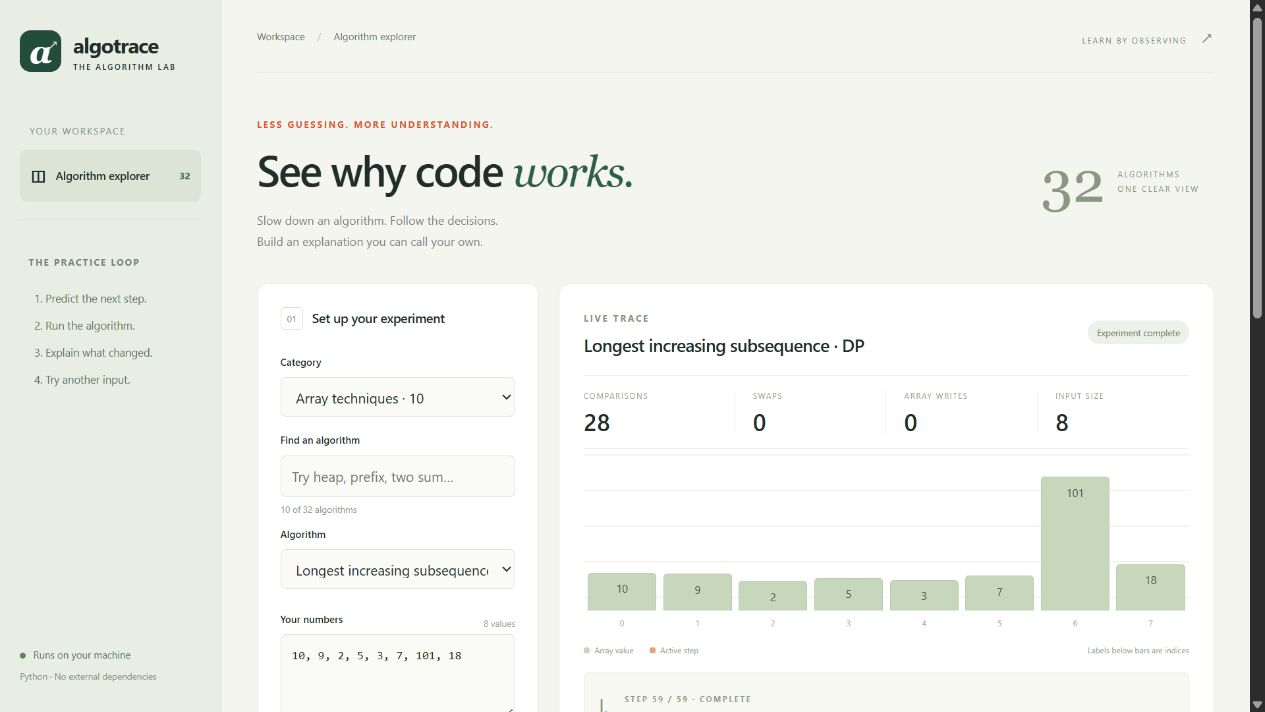
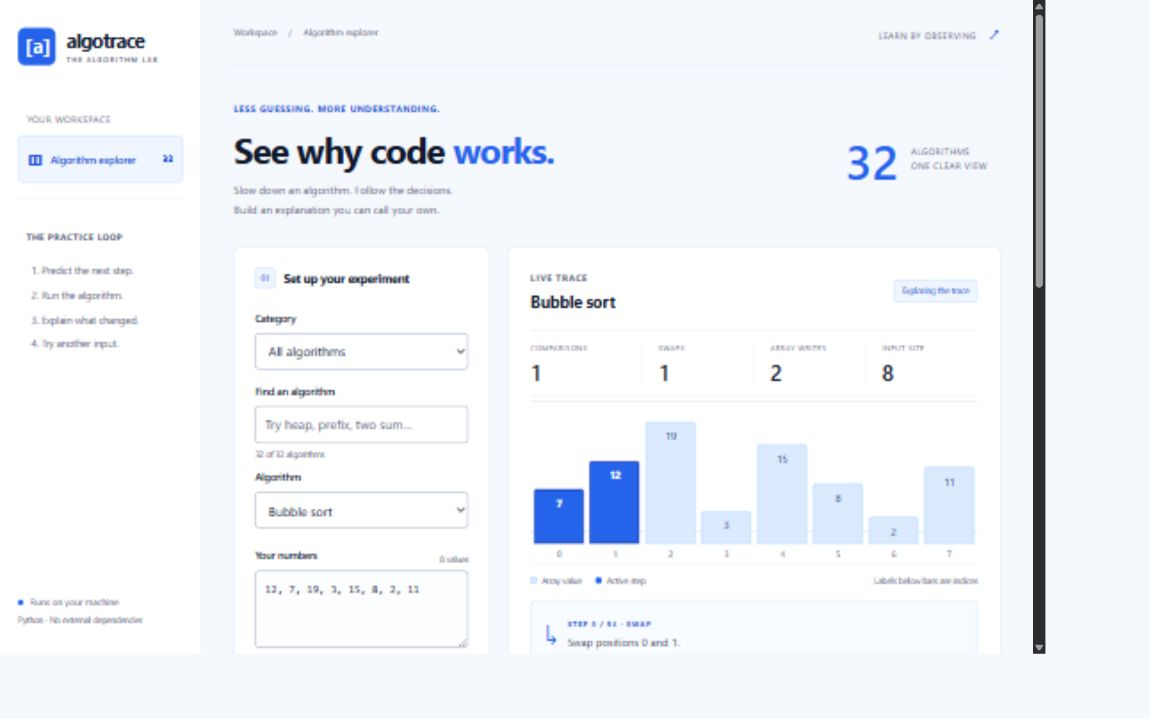
Restyle AlgoTrace with a blue and white interface

diff --git a/algotrace/web/style.css b/algotrace/web/style.css
@@ -1,5 +1,223 @@
-:root{--ink:#202d2a;--muted:#78827c;--line:#e4e7df;--paper:#f4f5ef;--white:#fff;--orange:#d85a35;--green:#2e5d4b;--soft:#edf1e9}*{box-sizing:border-box}body{margin:0;color:var(--ink);background:var(--paper);font:14px/1.5 'Segoe UI',Arial,sans-serif}button,input,textarea,select{font:inherit}button,a,select,input[type=range]{-webkit-tap-highlight-color:transparent}button{cursor:pointer;border:0;background:none;color:var(--ink)}button:disabled{cursor:default;opacity:.4}button:hover:enabled{filter:brightness(.94)}button:focus-visible,a:focus-visible,input:focus-visible,select:focus-visible,textarea:focus-visible{outline:3px solid #e0a16d;outline-offset:3px}button:active:enabled{transform:translateY(1px)}[hidden]{display:none!important}.rail{width:224px;height:100vh;position:fixed;inset:0 auto 0 0;background:#e9eee5;border-right:1px solid #dce2d7;padding:30px 20px;display:flex;flex-direction:column}.brand{display:flex;gap:12px;align-items:center;text-decoration:none;color:var(--ink)}.brand-mark{height:42px;width:42px;display:flex;align-items:center;justify-content:center;font:italic bold 34px Georgia;background:#244c3d;color:#fff;border-radius:11px;position:relative}.brand-mark>span{font:17px 'Segoe UI';position:absolute;right:3px;top:2px;color:#c9dbb6}.brand strong{font-size:21px;letter-spacing:-.7px}.brand strong>span{display:block;font-size:8px;letter-spacing:1.5px;font-weight:500}.rail-caption{font-size:9px;letter-spacing:1.5px;color:#80907e;margin:52px 10px 12px}.rail-item{display:flex;align-items:center;gap:10px;padding:13px 11px;font-size:11px;border-radius:7px}.rail-item.selected{background:#dce5d5;font-weight:600}.rail-item>span{font-size:18px}.rail-item b{margin-left:auto;font-size:9px;color:#60725d}.rail-note{padding:30px 9px;margin-top:18px;border-top:1px solid #d7dfd1}.tiny-label{font-size:9px;font-weight:700;letter-spacing:1.5px;color:var(--muted)}.rail-note ol{padding-left:17px;font-size:11px;color:#637360;line-height:2.5;margin-top:14px}.rail-bottom{margin-top:auto;color:#62725f;font-size:10px}.rail-bottom small{display:block;font-size:9px;margin-top:7px;color:#8a9486}.online-dot{display:inline-block;width:6px;height:6px;border-radius:50%;background:#62835a;margin-right:5px}main{margin-left:224px;padding:0 36px;max-width:1800px}header{height:74px;border-bottom:1px solid var(--line);display:flex;align-items:center;justify-content:space-between;font-size:10px}.breadcrumb{color:#69736d}.breadcrumb span{padding:0 10px;color:#bec6bb}.edition{font-size:8px;letter-spacing:1.5px;color:#7c897b}.edition i{font-size:17px;font-style:normal;margin-left:10px}.intro{display:flex;align-items:center;justify-content:space-between;padding:39px 0 32px}.eyebrow{font-size:9px;font-weight:700;letter-spacing:1.8px;color:var(--orange)}h1{font-size:clamp(28px,3.4vw,48px);letter-spacing:-1.8px;line-height:1.15;margin:12px 0 13px;font-weight:550}h1 em{font-family:Georgia,serif;font-weight:500;color:var(--green)}.intro p{font-size:12px;color:#7c847e;line-height:1.8;margin:0}.intro-stamp{display:flex;align-items:center;color:#8a9783;font:58px/1 Georgia;padding-right:15px;gap:13px}.intro-stamp span{font:8px/1.8 'Segoe UI';letter-spacing:1.5px}.panel{border:1px solid var(--line);border-radius:11px;background:var(--white);overflow:hidden}.workspace{display:grid;grid-template-columns:285px minmax(0,1fr);gap:20px}.controls-panel{padding:23px}.panel-heading{display:flex;align-items:center;gap:9px;margin-bottom:25px}.step-badge{font-size:9px;border:1px solid #dce1d7;color:#82907b;border-radius:4px;width:23px;height:23px;display:inline-flex;align-items:center;justify-content:center;flex-shrink:0}h2{font-size:13px;letter-spacing:-.2px;margin:0;font-weight:600}label{display:block;font-size:10px;font-weight:600;margin-bottom:8px}input,select,textarea{width:100%;color:var(--ink);background:#fafbf7;border:1px solid #dde3d8;border-radius:6px;padding:10px 11px;resize:vertical}select{height:40px;cursor:pointer}textarea{font-family:'Consolas','Courier New',monospace;font-size:12px;line-height:1.8}.label-line{display:flex;align-items:center;justify-content:space-between;margin-top:23px}.label-line span{color:#9ba393;font-size:9px}.field-help{font-size:9px;color:#91998f;margin:5px 0 11px}.sample-buttons{display:flex;gap:5px;flex-wrap:wrap}.sample-buttons button{border:1px solid var(--line);border-radius:4px;padding:5px 7px;font-size:9px;color:#6e7c66;background:#fafbf7}#target-group{margin-top:18px}.primary{display:flex;justify-content:space-between;width:100%;padding:12px 14px;color:#fff;background:var(--orange);border-radius:6px;font-weight:600;font-size:11px;margin-top:25px}.primary span{font-size:16px}.algorithm-note{border-top:1px solid var(--line);margin-top:24px;padding-top:18px}.algorithm-note p{font-size:10px;line-height:1.9;color:#7c8775;margin:9px 0 0}.trace-heading{display:flex;justify-content:space-between;align-items:center;padding:22px 25px 17px}.muted{color:#899582}.trace-heading h2{font-size:18px;letter-spacing:-.5px;margin-top:5px}.status{background:var(--soft);color:#6b805d;font-size:9px;padding:5px 9px;border-radius:20px}.stats{display:grid;grid-template-columns:repeat(4,1fr);margin:0 25px;border-top:1px solid #edf0e8;border-bottom:1px solid #edf0e8;padding:14px 0}.stats>div{border-right:1px solid #edf0e8;padding-left:18px}.stats>div:first-child{padding-left:0}.stats>div:last-child{border:0}.stats span{display:block;font-size:8px;letter-spacing:1px;color:#9aa490}.stats strong{display:block;font-size:24px;line-height:1.1;font-weight:500;margin-top:7px}.chart{display:flex;align-items:end;gap:7px;height:185px;padding:28px 4px 22px;margin:0 25px;background:repeating-linear-gradient(to top,transparent 0,transparent 35px,#f1f3ed 35px,#f1f3ed 36px);overflow-x:auto}.bar-slot{height:100%;min-width:25px;flex:1;display:flex;align-items:end;position:relative}.bar{background:#c6d7bc;border:1px solid #baccaf;border-radius:4px 4px 0 0;width:100%;min-height:20px;display:flex;align-items:start;justify-content:center;padding-top:7px;color:#41573b;position:relative;font-size:11px;transition:height .15s,background .15s}.bar.active{background:#e9a080;border-color:#df8a65;color:#713e27}.bar.outside{opacity:.25}.bar-index{position:absolute;bottom:-19px;text-align:center;width:100%;font-size:8px;color:#a4ad9d}.bar-slot.compact{min-width:17px}.bar-slot.compact .bar{font-size:8px}.chart-legend{display:flex;gap:16px;font-size:8px;color:#929b8c;align-items:center;margin:12px 25px 17px}.chart-legend i{display:inline-block;width:6px;height:6px;border-radius:2px;margin-right:5px}.legend-neutral{background:#c6d7bc}.legend-active{background:#e9a080}.index-note{margin-left:auto}.narration{display:flex;gap:13px;background:#f7f8f2;margin:0 25px;border:1px solid #e7ebdf;border-radius:6px;padding:11px 14px;min-height:68px;align-items:center}.pulse-icon{color:#849876;font-size:24px}.narration .tiny-label{font-size:8px;color:#94a086}.narration p{margin:3px 0 0;font-size:11px;color:#58664e}.timeline{margin:15px 25px 0}.timeline input{padding:0;border:0;height:4px;accent-color:var(--green);display:block}.playback{display:flex;align-items:center;justify-content:space-between;margin-top:14px}.transport{display:flex;align-items:center;gap:7px}.transport button{width:29px;height:29px;border:1px solid var(--line);border-radius:5px;font-size:15px}.transport .play{width:auto;font-size:10px;background:var(--green);color:#fff;padding:0 15px;border-color:var(--green)}.speed-label{display:flex;align-items:center;gap:7px;color:#8b9682;font-size:9px;font-weight:400;margin:0}.speed-label select{width:75px;height:28px;padding:3px 5px;font-size:9px}.trace-footer{border-top:1px solid #edf0e8;margin-top:18px;padding:12px 25px;display:flex;gap:10px;align-items:center;justify-content:space-between;font-size:9px;color:#8b9683}.trace-footer span{max-width:70%;overflow-wrap:anywhere}.trace-footer button{font-size:9px;white-space:nowrap}.lower-grid{display:grid;grid-template-columns:1fr 1fr;gap:20px;margin-top:20px}.section-label{display:flex;align-items:center;gap:9px;margin-bottom:18px}.section-label>span:last-child:not(.step-badge){font-size:7px;margin-left:auto;color:#a0a999;letter-spacing:1px}.code-panel,.compare-panel{padding:22px 25px}.pseudocode{padding:13px 10px 13px 39px;margin:0;background:#f5f7f1;border:1px solid #e8ecdf;border-radius:6px;font:10px/2.2 Consolas,monospace;color:#607256}.pseudocode li{white-space:pre-wrap;padding-left:8px}.pseudocode li::marker{color:#a4af9a}.pseudocode li.current{background:#e8cfb7;color:#5b452e}.complexity{display:flex;flex-wrap:wrap;gap:12px;margin-top:17px;font-size:9px;color:#8e9a83}.complexity strong{color:#53654a;display:block;font-family:Consolas,monospace;font-size:12px}.counting-note{font-size:8px;color:#9aa38e;line-height:1.8;margin:13px 0 0}.muted-text{font-size:11px;line-height:1.8;color:#89947f;margin:0 0 15px}.secondary{border:1px solid #dce3d3;background:#f3f6ed;font-size:10px;padding:8px 12px;border-radius:5px}.compare-placeholder{text-align:center;color:#a8b29c;font-size:11px;padding:35px 0;line-height:1.9}.compare-table{border-collapse:collapse;width:100%;margin-top:20px;font-size:10px}.compare-table th{text-align:left;font-size:8px;color:#95a18a;font-weight:500;padding:8px 4px;border-bottom:1px solid var(--line)}.compare-table td{padding:10px 4px;border-bottom:1px solid #f0f2eb}.compare-table tr.winner td{color:#355a2d;background:#f1f6eb}.compare-caption{font-size:8px;line-height:1.8;color:#89967e}.reflection{margin-top:20px;padding:24px 25px;display:grid;grid-template-columns:1fr 1.4fr;gap:30px;align-items:center}.reflection h2{font-size:20px;letter-spacing:-.5px;margin-top:7px}.reflection p{font-size:10px;color:#8b9683}.reflection-editor>div{display:flex;align-items:center;gap:9px;margin-top:8px}.reflection-editor>div span{font-size:8px;color:#89967f;margin-right:auto}.reflection-editor>div button{font-size:9px}.reflection-editor textarea{font-size:10px}footer{display:flex;align-items:center;gap:15px;padding:26px 0 30px;font-size:8px;color:#9da693}footer strong{color:#64725a;font-size:11px}footer>span:last-child{margin-left:auto}.error{color:#a33021;font-size:11px;background:#fff2ed;border-radius:5px;padding:10px;line-height:1.7}.trace-warning{margin:10px 25px 0;color:#a36d30;font-size:10px}.empty-chart{margin:auto;font-size:12px;color:#8f9b84}.sr-only{position:absolute;width:1px;height:1px;padding:0;margin:-1px;overflow:hidden;clip:rect(0,0,0,0);white-space:nowrap;border:0}@media(min-width:1500px){main{padding:0 55px}.workspace{grid-template-columns:310px minmax(0,1fr)}.chart{height:230px}.intro{padding:48px 0 40px}.controls-panel{padding:27px}.algorithm-note{margin-top:32px}}@media(max-width:1100px){.rail{width:184px;padding:25px 14px}.brand strong{font-size:18px}.brand-mark{width:35px;height:35px}main{margin-left:184px;padding:0 22px}.workspace{grid-template-columns:250px minmax(0,1fr);gap:14px}.controls-panel{padding:18px}.chart{gap:4px}.stats span{font-size:7px;letter-spacing:.3px}.stats>div{padding-left:9px}.chart-legend{gap:8px}.index-note{display:none}.lower-grid{gap:14px}.intro-stamp{display:none}.trace-heading,.code-panel,.compare-panel{padding:18px}.stats,.chart,.chart-legend,.narration,.timeline{margin-left:18px;margin-right:18px}}@media(max-width:850px){.rail{width:100%;height:auto;position:static;padding:16px 22px;border:0;border-bottom:1px solid var(--line);display:block}.brand strong{font-size:20px}.brand strong>span{font-size:7px}.brand-mark{width:35px;height:35px}.rail-caption,.rail-item,.rail-note,.rail-bottom{display:none}main{margin:0;padding:0 20px}.intro{padding:30px 0}.intro h1{font-size:38px}header{height:50px}.workspace{grid-template-columns:1fr}.controls-panel form{display:grid;grid-template-columns:1fr;gap:0}.algorithm-note{margin-top:18px}.panel-heading{margin-bottom:15px}.label-line{margin-top:16px}.primary{margin-top:18px}.chart{height:215px}.lower-grid{grid-template-columns:1fr}.reflection{grid-template-columns:1fr;gap:12px}.edition{display:none}footer{flex-wrap:wrap}footer>span:last-child{margin-left:0}.stats{padding:15px 0}}@media(prefers-reduced-motion:reduce){*{transition:none!important}}
+/* AlgoTrace — blue and white interface. Layout and color tokens live here. */
+:root {
+  --ink: #0f172a;
+  --muted: #526279;
+  --line: #dce3ee;
+  --paper: #f5f8fd;
+  --white: #ffffff;
+  --accent: #2563eb;
+  --accent-strong: #1d4ed8;
+  --accent-soft: #eff6ff;
+  --accent-border: #bfdbfe;
+}
 
-@media(max-width:480px){.playback{flex-wrap:wrap;gap:12px}.transport{flex-shrink:0}.transport .play{white-space:nowrap}.speed-label{margin-left:auto}}
-.intro-stamp>b{font:inherit}.filter-label{margin-top:16px}.working-state{margin:12px 25px 0;padding:12px 14px;border:1px solid #e1e7d7;border-radius:6px;background:#f8faf4}.working-state dl{display:grid;grid-template-columns:auto 1fr;gap:6px 15px;font-size:10px;margin:8px 0 0}.working-state dt{color:#87947b;text-transform:capitalize}.working-state dd{margin:0;font:10px/1.8 Consolas,monospace;overflow-wrap:anywhere;min-width:0}.compare-results{overflow-x:auto}.compare-table td:first-child{max-width:170px}.compare-table td{vertical-align:top}.trace-footer span{max-height:110px;overflow:auto}@media(max-width:1100px){.working-state{margin-left:18px;margin-right:18px}}
-#compare-results{overflow-x:auto}
+* { box-sizing: border-box; }
+body { margin: 0; color: var(--ink); background: var(--paper); font: 14px/1.5 'Segoe UI', Arial, sans-serif; }
+button, input, textarea, select { font: inherit; }
+button, a, select, input[type=range] { -webkit-tap-highlight-color: transparent; }
+button { cursor: pointer; border: 0; background: none; color: var(--ink); }
+button:disabled { cursor: default; opacity: .42; }
+button:hover:enabled { filter: brightness(.95); }
+button:active:enabled { transform: translateY(1px); }
+button:focus-visible, a:focus-visible, input:focus-visible, select:focus-visible, textarea:focus-visible {
+  outline: 3px solid var(--accent);
+  outline-offset: 3px;
+}
+[hidden] { display: none !important; }
+
+/* Navigation */
+.rail { width: 224px; height: 100vh; position: fixed; inset: 0 auto 0 0; background: var(--white); border-right: 1px solid var(--line); padding: 30px 20px; display: flex; flex-direction: column; }
+.brand { display: flex; gap: 12px; align-items: center; text-decoration: none; color: var(--ink); }
+.brand-mark { height: 42px; width: 42px; display: flex; align-items: center; justify-content: center; font: 700 21px Consolas, monospace; letter-spacing: -2px; background: var(--accent); color: var(--white); border-radius: 8px; }
+.brand strong { font-size: 21px; letter-spacing: -.7px; }
+.brand strong > span { display: block; font-size: 8px; letter-spacing: 1.4px; font-weight: 600; color: var(--muted); }
+.rail-caption { font-size: 9px; letter-spacing: 1.2px; color: var(--muted); margin: 52px 10px 12px; }
+.rail-item { display: flex; align-items: center; gap: 10px; padding: 12px 10px; font-size: 11px; border: 1px solid transparent; border-radius: 6px; }
+.rail-item.selected { background: var(--accent-soft); color: var(--accent-strong); border-color: var(--accent-border); font-weight: 600; }
+.rail-item > span { font-size: 18px; }
+.rail-item b { margin-left: auto; font-size: 10px; }
+.rail-note { padding: 30px 9px; margin-top: 18px; border-top: 1px solid var(--line); }
+.tiny-label { font-size: 9px; font-weight: 700; letter-spacing: 1.2px; color: var(--muted); }
+.rail-note ol { padding-left: 17px; font-size: 11px; color: var(--muted); line-height: 2.5; margin-top: 14px; }
+.rail-bottom { margin-top: auto; color: var(--muted); font-size: 10px; }
+.rail-bottom small { display: block; font-size: 9px; margin-top: 7px; }
+.online-dot { display: inline-block; width: 6px; height: 6px; border-radius: 50%; background: var(--accent); margin-right: 5px; }
+
+/* Page structure */
+main { margin-left: 224px; padding: 0 36px; max-width: 1800px; }
+header { height: 74px; border-bottom: 1px solid var(--line); display: flex; align-items: center; justify-content: space-between; font-size: 10px; }
+.breadcrumb { color: var(--muted); }
+.breadcrumb span { padding: 0 10px; color: #64748b; }
+.edition { font-size: 9px; letter-spacing: 1.1px; color: var(--muted); }
+.edition i { font-size: 17px; font-style: normal; margin-left: 10px; color: var(--accent); }
+.intro { display: flex; align-items: center; justify-content: space-between; padding: 36px 0 30px; }
+.eyebrow { font-size: 9px; font-weight: 700; letter-spacing: 1.5px; color: var(--accent-strong); }
+h1 { font-size: clamp(28px, 3.4vw, 46px); letter-spacing: -1.5px; line-height: 1.15; margin: 12px 0 13px; font-weight: 650; }
+h1 em { font: inherit; color: var(--accent); }
+.intro p { font-size: 12px; color: var(--muted); line-height: 1.8; margin: 0; }
+.intro-stamp { display: flex; align-items: center; color: var(--accent); font: 500 54px/1 'Segoe UI', Arial, sans-serif; padding-right: 15px; gap: 13px; }
+.intro-stamp > b { font: inherit; }
+.intro-stamp span { font: 9px/1.8 'Segoe UI', Arial, sans-serif; letter-spacing: 1.1px; color: var(--muted); }
+.panel { border: 1px solid var(--line); border-radius: 8px; background: var(--white); overflow: hidden; box-shadow: 0 1px 2px #0f172a05; }
+.workspace { display: grid; grid-template-columns: 285px minmax(0, 1fr); gap: 20px; }
+.controls-panel { padding: 23px; }
+.panel-heading { display: flex; align-items: center; gap: 9px; margin-bottom: 25px; }
+.step-badge { font-size: 9px; border: 1px solid var(--accent-border); background: var(--accent-soft); color: var(--accent-strong); border-radius: 4px; width: 23px; height: 23px; display: inline-flex; align-items: center; justify-content: center; flex-shrink: 0; }
+h2 { font-size: 13px; letter-spacing: -.2px; margin: 0; font-weight: 650; }
+
+/* Experiment form */
+label { display: block; font-size: 11px; font-weight: 600; margin-bottom: 8px; }
+input, select, textarea { width: 100%; color: var(--ink); background: var(--white); border: 1px solid #8293ab; border-radius: 5px; padding: 10px 11px; resize: vertical; }
+input::placeholder, textarea::placeholder { color: var(--muted); opacity: 1; }
+select { height: 40px; cursor: pointer; }
+textarea { font-family: Consolas, 'Courier New', monospace; font-size: 12px; line-height: 1.8; background: #fbfdff; }
+.filter-label { margin-top: 16px; }
+.label-line { display: flex; align-items: center; justify-content: space-between; margin-top: 23px; }
+.label-line span { color: var(--muted); font-size: 9px; }
+.field-help { font-size: 9px; color: var(--muted); margin: 5px 0 11px; }
+.sample-buttons { display: flex; gap: 5px; flex-wrap: wrap; }
+.sample-buttons button { border: 1px solid var(--line); border-radius: 4px; padding: 5px 7px; font-size: 9px; color: var(--muted); background: var(--white); }
+.sample-buttons button:hover:enabled { border-color: #93c5fd; color: var(--accent-strong); background: var(--accent-soft); }
+#target-group { margin-top: 18px; }
+.primary { display: flex; justify-content: space-between; width: 100%; padding: 12px 14px; color: var(--white); background: var(--accent); border: 1px solid var(--accent-strong); border-radius: 5px; font-weight: 600; font-size: 12px; margin-top: 25px; }
+.primary span { font-size: 16px; }
+.algorithm-note { border-top: 1px solid var(--line); margin-top: 24px; padding-top: 18px; }
+.algorithm-note p { font-size: 11px; line-height: 1.8; color: var(--muted); margin: 9px 0 0; }
+
+/* Trace and chart */
+.trace-heading { display: flex; justify-content: space-between; align-items: center; gap: 12px; padding: 22px 25px 17px; }
+.muted { color: var(--muted); }
+.trace-heading h2 { font-size: 18px; letter-spacing: -.4px; margin-top: 5px; }
+.status { background: var(--accent-soft); color: var(--accent-strong); border: 1px solid var(--accent-border); font-size: 9px; padding: 5px 9px; border-radius: 4px; }
+.stats { display: grid; grid-template-columns: repeat(4, 1fr); margin: 0 25px; border-top: 1px solid var(--line); border-bottom: 1px solid var(--line); padding: 14px 0; }
+.stats > div { border-right: 1px solid var(--line); padding-left: 18px; }
+.stats > div:first-child { padding-left: 0; }
+.stats > div:last-child { border: 0; }
+.stats span { display: block; font-size: 8px; letter-spacing: .8px; color: var(--muted); }
+.stats strong { display: block; font-size: 24px; line-height: 1.1; font-weight: 600; margin-top: 7px; font-variant-numeric: tabular-nums; }
+.chart { display: flex; align-items: end; gap: 7px; height: 185px; padding: 28px 4px 22px; margin: 0 25px; background: repeating-linear-gradient(to top, transparent 0, transparent 35px, #eaf0f8 35px, #eaf0f8 36px); overflow-x: auto; }
+.bar-slot { height: 100%; min-width: 25px; flex: 1; display: flex; align-items: end; position: relative; }
+.bar { background: #dbeafe; border: 1px solid #93c5fd; border-radius: 3px 3px 0 0; width: 100%; min-height: 20px; display: flex; align-items: start; justify-content: center; padding-top: 7px; color: #1e3a8a; position: relative; font-size: 11px; transition: height .15s, background .15s; }
+.bar.active { background: var(--accent); border-color: #1e40af; color: var(--white); font-weight: 700; box-shadow: inset 0 0 0 1px #1e40af; }
+.bar.outside { opacity: .3; }
+.bar-index { position: absolute; bottom: -19px; text-align: center; width: 100%; font-size: 9px; color: var(--muted); }
+.bar-slot.compact { min-width: 17px; }
+.bar-slot.compact .bar { font-size: 8px; }
+.chart-legend { display: flex; gap: 16px; font-size: 9px; color: var(--muted); align-items: center; margin: 12px 25px 17px; }
+.chart-legend i { display: inline-block; width: 7px; height: 7px; border-radius: 2px; margin-right: 5px; }
+.legend-neutral { background: #dbeafe; border: 1px solid #93c5fd; }
+.legend-active { background: var(--accent); }
+.index-note { margin-left: auto; }
+.narration { display: flex; gap: 13px; background: #f8fbff; margin: 0 25px; border: 1px solid var(--accent-border); border-radius: 5px; padding: 11px 14px; min-height: 68px; align-items: center; }
+.pulse-icon { color: var(--accent); font-size: 24px; }
+.narration .tiny-label { font-size: 8px; color: var(--accent-strong); }
+.narration p { margin: 3px 0 0; font-size: 12px; color: #334155; }
+.working-state { margin: 12px 25px 0; padding: 12px 14px; border: 1px solid var(--line); border-radius: 5px; background: #f8fafc; }
+.working-state dl { display: grid; grid-template-columns: auto 1fr; gap: 6px 15px; font-size: 11px; margin: 8px 0 0; }
+.working-state dt { color: var(--muted); text-transform: capitalize; }
+.working-state dd { margin: 0; font: 11px/1.8 Consolas, monospace; overflow-wrap: anywhere; min-width: 0; color: #1e3a8a; }
+.timeline { margin: 15px 25px 0; }
+.timeline input { padding: 0; border: 0; height: 4px; accent-color: var(--accent); display: block; }
+.playback { display: flex; align-items: center; justify-content: space-between; margin-top: 14px; }
+.transport { display: flex; align-items: center; gap: 7px; }
+.transport button { width: 29px; height: 29px; border: 1px solid #cbd5e1; border-radius: 4px; font-size: 15px; }
+.transport .play { width: auto; font-size: 11px; background: var(--accent); color: var(--white); padding: 0 15px; border-color: var(--accent-strong); white-space: nowrap; }
+.speed-label { display: flex; align-items: center; gap: 7px; color: var(--muted); font-size: 10px; font-weight: 400; margin: 0; }
+.speed-label select { width: 75px; height: 28px; padding: 3px 5px; font-size: 10px; }
+.trace-footer { border-top: 1px solid var(--line); margin-top: 18px; padding: 12px 25px; display: flex; gap: 10px; align-items: center; justify-content: space-between; font-size: 10px; color: var(--muted); }
+.trace-footer span { max-width: 70%; max-height: 110px; overflow: auto; overflow-wrap: anywhere; }
+.trace-footer button { font-size: 10px; white-space: nowrap; color: var(--accent-strong); }
+
+/* Pseudocode, comparisons and notes */
+.lower-grid { display: grid; grid-template-columns: 1fr 1fr; gap: 20px; margin-top: 20px; }
+.section-label { display: flex; align-items: center; gap: 9px; margin-bottom: 18px; }
+.section-label > span:last-child:not(.step-badge) { font-size: 8px; margin-left: auto; color: var(--muted); letter-spacing: 1px; }
+.code-panel, .compare-panel { padding: 22px 25px; }
+.pseudocode { padding: 13px 10px 13px 39px; margin: 0; background: #f8fafc; border: 1px solid var(--line); border-radius: 5px; font: 11px/2.2 Consolas, monospace; color: #334155; }
+.pseudocode li { white-space: pre-wrap; padding-left: 8px; border-left: 3px solid transparent; }
+.pseudocode li::marker { color: var(--muted); }
+.pseudocode li.current { background: #dbeafe; border-left-color: var(--accent); color: #1e3a8a; font-weight: 700; }
+.complexity { display: flex; flex-wrap: wrap; gap: 12px; margin-top: 17px; font-size: 10px; color: var(--muted); }
+.complexity strong { color: #1e3a8a; display: block; font-family: Consolas, monospace; font-size: 13px; }
+.counting-note { font-size: 9px; color: var(--muted); line-height: 1.8; margin: 13px 0 0; }
+.muted-text { font-size: 11px; line-height: 1.8; color: var(--muted); margin: 0 0 15px; }
+.secondary { border: 1px solid var(--accent-border); background: var(--accent-soft); color: var(--accent-strong); font-size: 11px; padding: 8px 12px; border-radius: 4px; }
+.compare-placeholder { text-align: center; color: var(--muted); font-size: 11px; padding: 35px 0; line-height: 1.9; }
+#compare-results { overflow-x: auto; }
+.compare-table { border-collapse: collapse; width: 100%; margin-top: 20px; font-size: 11px; }
+.compare-table th { text-align: left; font-size: 9px; color: var(--muted); font-weight: 600; padding: 8px 4px; border-bottom: 1px solid var(--line); }
+.compare-table td { padding: 10px 4px; border-bottom: 1px solid #e8edf5; vertical-align: top; }
+.compare-table td:first-child { max-width: 170px; }
+.compare-table tr.winner td { color: #1e3a8a; background: var(--accent-soft); font-weight: 600; }
+.compare-caption { font-size: 9px; line-height: 1.8; color: var(--muted); }
+.reflection { margin-top: 20px; padding: 24px 25px; display: grid; grid-template-columns: 1fr 1.4fr; gap: 30px; align-items: center; }
+.reflection h2 { font-size: 20px; letter-spacing: -.5px; margin-top: 7px; }
+.reflection p { font-size: 11px; color: var(--muted); }
+.reflection-editor > div { display: flex; align-items: center; gap: 9px; margin-top: 8px; }
+.reflection-editor > div span { font-size: 9px; color: var(--muted); margin-right: auto; }
+.reflection-editor > div button { font-size: 10px; }
+.reflection-editor textarea { font-size: 11px; }
+footer { display: flex; align-items: center; gap: 15px; padding: 26px 0 30px; font-size: 9px; color: var(--muted); }
+footer strong { color: var(--ink); font-size: 11px; }
+footer > span:last-child { margin-left: auto; }
+.error { color: #991b1b; font-size: 11px; background: #fef2f2; border: 1px solid #fecaca; border-radius: 5px; padding: 10px; line-height: 1.7; }
+.trace-warning { margin: 10px 25px 0; color: #92400e; font-size: 11px; }
+.empty-chart { margin: auto; font-size: 12px; color: var(--muted); }
+.sr-only { position: absolute; width: 1px; height: 1px; padding: 0; margin: -1px; overflow: hidden; clip: rect(0, 0, 0, 0); white-space: nowrap; border: 0; }
+
+/* Responsive layouts */
+@media (min-width: 1500px) {
+  main { padding: 0 55px; }
+  .workspace { grid-template-columns: 310px minmax(0, 1fr); }
+  .chart { height: 230px; }
+  .intro { padding: 48px 0 40px; }
+  .controls-panel { padding: 27px; }
+  .algorithm-note { margin-top: 32px; }
+}
+@media (max-width: 1100px) {
+  .rail { width: 184px; padding: 25px 14px; }
+  .brand strong { font-size: 18px; }
+  .brand-mark { width: 35px; height: 35px; font-size: 18px; }
+  main { margin-left: 184px; padding: 0 22px; }
+  .workspace { grid-template-columns: 250px minmax(0, 1fr); gap: 14px; }
+  .controls-panel { padding: 18px; }
+  .chart { gap: 4px; }
+  .stats span { font-size: 7px; letter-spacing: .3px; }
+  .stats > div { padding-left: 9px; }
+  .chart-legend { gap: 8px; }
+  .index-note, .intro-stamp { display: none; }
+  .lower-grid { gap: 14px; }
+  .trace-heading, .code-panel, .compare-panel { padding: 18px; }
+  .stats, .chart, .chart-legend, .narration, .timeline, .working-state { margin-left: 18px; margin-right: 18px; }
+}
+@media (max-width: 850px) {
+  .rail { width: 100%; height: auto; position: static; padding: 16px 22px; border: 0; border-bottom: 1px solid var(--line); display: block; }
+  .brand strong { font-size: 20px; }
+  .brand strong > span { font-size: 7px; }
+  .rail-caption, .rail-item, .rail-note, .rail-bottom { display: none; }
+  main { margin: 0; padding: 0 20px; }
+  .intro { padding: 30px 0; }
+  .intro h1 { font-size: 36px; }
+  header { height: 50px; }
+  .workspace { grid-template-columns: 1fr; }
+  .controls-panel form { display: grid; grid-template-columns: 1fr; gap: 0; }
+  .algorithm-note { margin-top: 18px; }
+  .panel-heading { margin-bottom: 15px; }
+  .label-line { margin-top: 16px; }
+  .primary { margin-top: 18px; }
+  .chart { height: 215px; }
+  .lower-grid, .reflection { grid-template-columns: 1fr; }
+  .reflection { gap: 12px; }
+  .edition { display: none; }
+  footer { flex-wrap: wrap; }
+  footer > span:last-child { margin-left: 0; }
+  .stats { padding: 15px 0; }
+}
+@media (max-width: 480px) {
+  .playback { flex-wrap: wrap; gap: 12px; }
+  .transport { flex-shrink: 0; }
+  .speed-label { margin-left: auto; }
+}
+@media (prefers-reduced-motion: reduce) {
+  * { transition: none !important; }
+}

diff --git a/algotrace/web/index.html b/algotrace/web/index.html
@@ -10,7 +10,7 @@
 </head>
 <body>
   <aside class="rail">
-    <a class="brand" href="/" aria-label="AlgoTrace home"><span class="brand-mark">a<span>↗</span></span><strong>algotrace<span>THE ALGORITHM LAB</span></strong></a>
+    <a class="brand" href="/" aria-label="AlgoTrace home"><span class="brand-mark" aria-hidden="true">[a]</span><strong>algotrace<span>THE ALGORITHM LAB</span></strong></a>
     <div class="rail-caption">YOUR WORKSPACE</div>
     <div class="rail-item selected"><span>◫</span> Algorithm explorer <b id="rail-count">32</b></div>
     <div class="rail-note"><span class="tiny-label">THE PRACTICE LOOP</span><ol><li>Predict the next step.</li><li>Run the algorithm.</li><li>Explain what changed.</li><li>Try another input.</li></ol></div>
@@ -53,7 +53,7 @@
       <section class="panel compare-panel"><div class="section-label"><span class="step-badge">03</span><h2>Compare the work</h2></div><p class="muted-text">Same input. Fourteen sorts. Compare key operations; distribution sorts also do bucket/count work that these counters omit.</p><button class="secondary" id="compare">Compare all sorts ↗</button><div id="compare-results" aria-live="polite"><div class="compare-placeholder">A nearly sorted array can tell a different story.<br>Try it, then compare.</div></div><p id="compare-error" class="error" role="alert" hidden></p></section>
     </div>
     <section class="panel reflection"><div><span class="eyebrow muted">MAKE THE LEARNING YOURS</span><h2>What did you notice?</h2><p>Predict, explain, then revisit. Notes stay in this browser.</p></div><div class="reflection-editor"><label class="sr-only" for="notes">Your learning notes</label><textarea id="notes" rows="3" placeholder="Why did this algorithm do more work on this input? What would change with duplicates?"></textarea><div><span id="note-status" role="status">Not saved yet</span><button class="secondary" id="save-notes">Save note</button><button id="export-notes">Download notes ↓</button></div></div></section>
-    <footer><strong>AlgoTrace</strong><span>Understand the process. Own the explanation.</span><span>Offline · Python standard library · v2.0</span></footer>
+    <footer><strong>AlgoTrace</strong><span>Understand the process. Own the explanation.</span><span>Offline · Python standard library · v2.0.1</span></footer>
   </main>
 </body>
 </html>

diff --git a/algotrace/__init__.py b/algotrace/__init__.py
@@ -1,3 +1,3 @@
 """AlgoTrace: inspect algorithms through deterministic operation traces."""
 
-__version__ = "2.0.0"
+__version__ = "2.0.1"

diff --git a/docs/VERIFICATION.md b/docs/VERIFICATION.md
@@ -35,3 +35,10 @@ Playback, pause, reverse stepping, JSON export, saved-note refresh persistence, 
 ## Scope
 
 This is an educational local application. It is not validated as a production hosting server, and tests do not establish the owner's independent mastery. Operation counters intentionally omit loop conditions, arithmetic, hash lookups and auxiliary-table updates. Complexity excludes tracing, serialization and result-copy overhead. Notes remain in local browser storage.
+
+## Blue-and-white theme — 2.0.1
+
+- Replaced the palette in all form, trace, state, comparison and navigation styles; updated the logo and typography.
+- Inspected the narrow layout and the desktop breakpoint at a 1280 × 800 viewport, then reset the viewport override.
+- Verified a trace's blue active bars and playback controls, and completed a 14-sort comparison with no browser error-level logs.
+- Algorithm implementations were not changed for this visual update. The 33-test algorithm/API/CLI results above are retained; the backend suite was not rerun for a stylesheet-only behavior change.

diff --git a/CHANGELOG.md b/CHANGELOG.md
@@ -1,5 +1,11 @@
 # Changes
 
+## 2.0.1 — 28 October 2026
+
+- Replaced the sage/cream/orange palette with white panels, navy text and blue accents throughout the browser interface.
+- Improved text contrast, active-step emphasis and focus indicators; simplified the logo and removed decorative serif typography.
+- Reorganized the stylesheet into readable sections and reusable color tokens. Algorithm behavior is unchanged.
+
 ## 2.0.0 — 28 October 2026
 
 - Expanded from 6 to 32 algorithms: 8 searches, 14 sorts and 10 array techniques.
